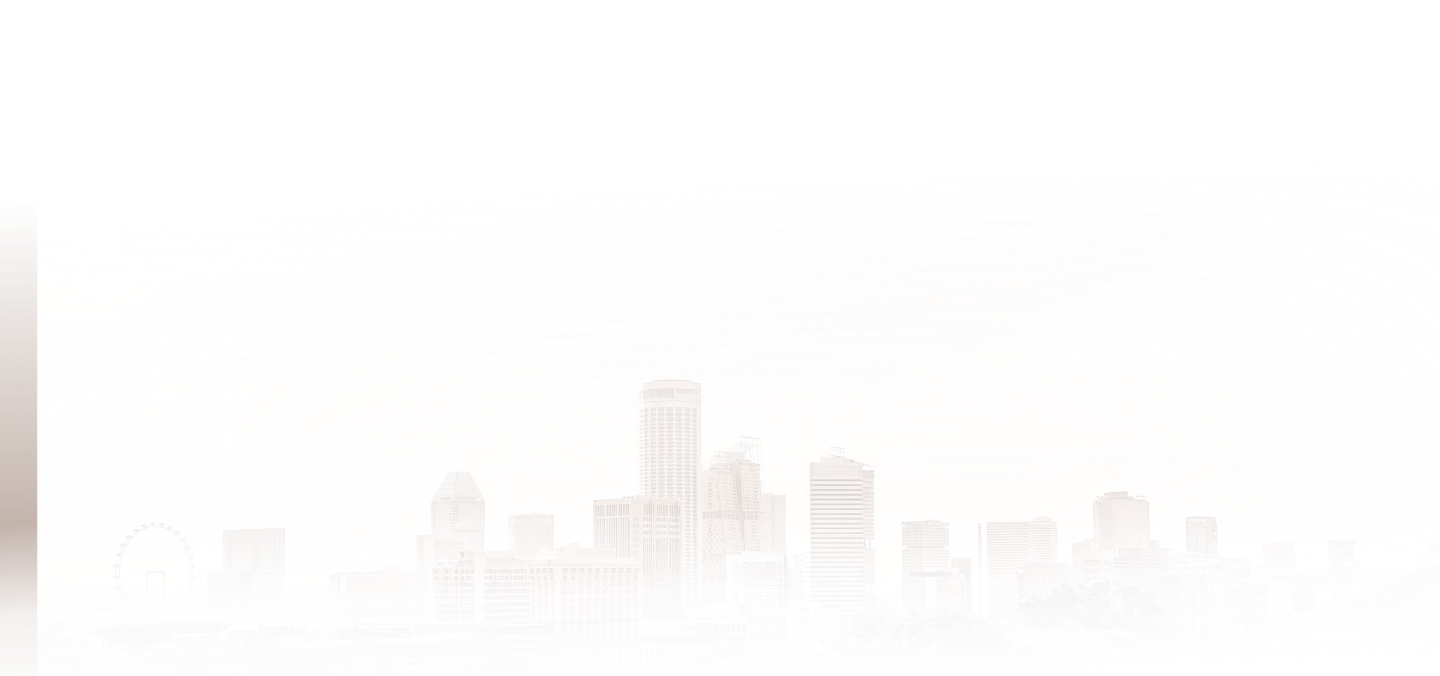
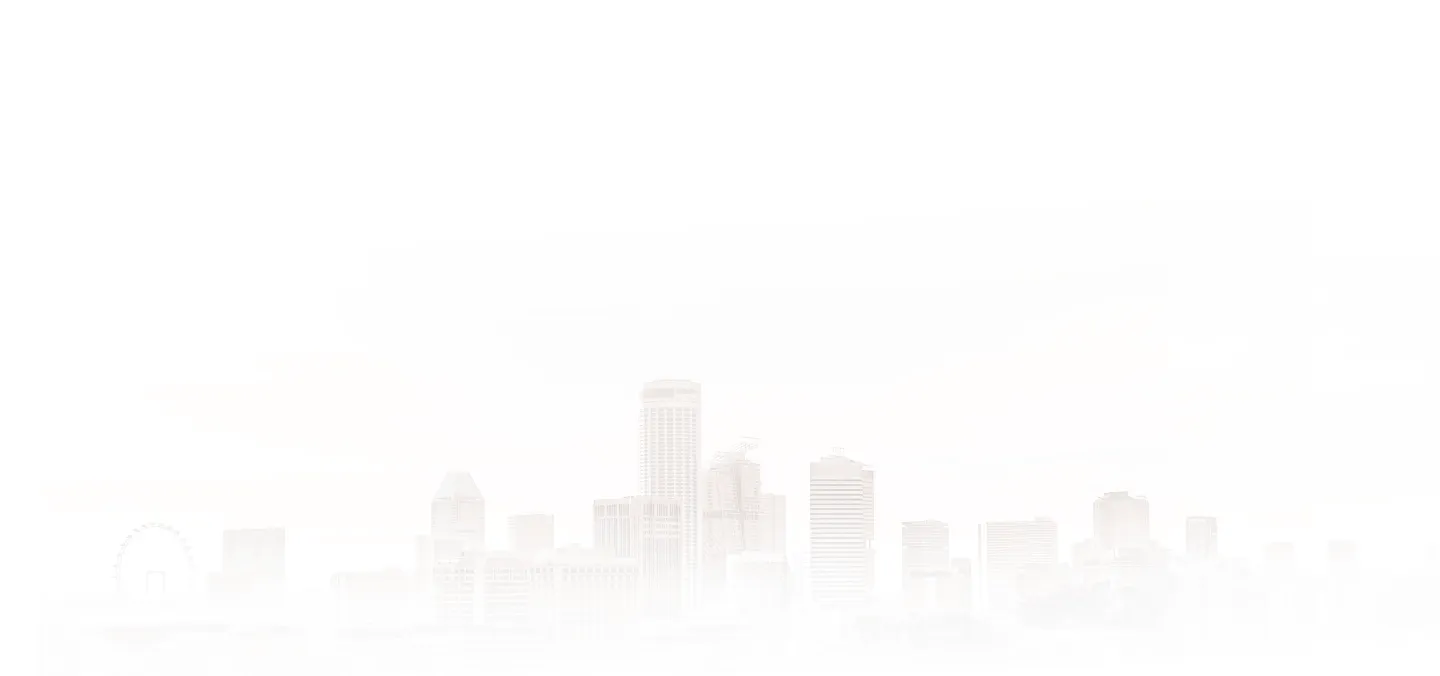
update

Changed region(s): [[0.0, 0.4349, 0.0312, 0.9009]]

diff --git a/src/sections/detail-hr/success/index.tsx b/src/sections/detail-hr/success/index.tsx
@@ -3,11 +3,11 @@
 import ImageV2 from '@/components/image/ImageV2'
 import {ICArrow} from '@/components/itemBlog'
 import {Swiper, SwiperSlide} from 'swiper/react'
-import {Swiper as SwiperType} from 'swiper'
-import {useRef, useState, useMemo} from 'react'
+import {Pagination, Navigation} from 'swiper/modules'
 import 'swiper/css'
 import 'swiper/css/navigation'
 import 'swiper/css/pagination'
+import './style.css'
 import Link from 'next/link'
 
 // Success Card Component
@@ -168,38 +168,8 @@ const SUCCESS_DATA = [
 ]
 
 export default function Success() {
-  const swiperRef = useRef<SwiperType | null>(null)
-  const [activeIndex, setActiveIndex] = useState(0)
-
   const slidesPerView = 3
   const slidesPerGroup = 1
-
-  // Tính toán số lượng pagination dots
-  const totalPages = useMemo(() => {
-    return Math.ceil((SUCCESS_DATA.length - slidesPerView) / slidesPerGroup) + 1
-  }, [])
-
-  const handleSlideChange = (swiper: SwiperType) => {
-    setActiveIndex(swiper.activeIndex)
-  }
-
-  const handleDotClick = (index: number) => {
-    if (swiperRef.current) {
-      swiperRef.current.slideTo(index)
-    }
-  }
-
-  const handlePrevClick = () => {
-    if (swiperRef.current && activeIndex > 0) {
-      swiperRef.current.slidePrev()
-    }
-  }
-
-  const handleNextClick = () => {
-    if (swiperRef.current && activeIndex < totalPages - 1) {
-      swiperRef.current.slideNext()
-    }
-  }
 
   return (
     <section className='flex flex-col items-center justify-center gap-[2.5rem] self-stretch bg-[#F6F6F4] px-[5rem] pb-[6.25rem] xsm:items-start xsm:gap-[1.25rem] xsm:px-0 xsm:pb-[2rem]'>
@@ -209,8 +179,7 @@ export default function Success() {
         </h2>
         <div className='flex items-center gap-[0.75rem] xsm:hidden xsm:gap-[0.5rem]'>
           <button
-            onClick={handlePrevClick}
-            className={`flex w-[2.5rem] cursor-pointer items-center justify-end gap-[0.625rem] rounded-[1.5rem] bg-[rgba(245,193,120,0.20)] p-[0.5rem] xsm:w-[2rem] xsm:gap-[0.5rem] xsm:rounded-[1.2rem] xsm:p-[0.4rem] ${activeIndex === 0 ? 'swiper-button-disabled' : ''}`}
+            className={`swiper-btn-success-prev flex w-[2.5rem] cursor-pointer items-center justify-end gap-[0.625rem] rounded-[1.5rem] bg-[rgba(245,193,120,0.20)] p-[0.5rem] xsm:w-[2rem] xsm:gap-[0.5rem] xsm:rounded-[1.2rem] xsm:p-[0.4rem]`}
           >
             <svg
               className='size-[1.5rem] shrink-0 xsm:size-[1.2rem]'
@@ -230,8 +199,7 @@ export default function Success() {
             </svg>
           </button>
           <button
-            onClick={handleNextClick}
-            className={`flex w-[2.5rem] cursor-pointer items-center justify-end gap-[0.625rem] rounded-[1.5rem] bg-[rgba(245,193,120,0.20)] p-[0.5rem] xsm:w-[2rem] xsm:gap-[0.5rem] xsm:rounded-[1.2rem] xsm:p-[0.4rem] ${activeIndex === totalPages - 1 ? 'swiper-button-disabled' : ''}`}
+            className={`swiper-btn-success-next flex w-[2.5rem] cursor-pointer items-center justify-end gap-[0.625rem] rounded-[1.5rem] bg-[rgba(245,193,120,0.20)] p-[0.5rem] xsm:w-[2rem] xsm:gap-[0.5rem] xsm:rounded-[1.2rem] xsm:p-[0.4rem]`}
           >
             <svg
               className='size-[1.5rem] shrink-0 xsm:size-[1.2rem]'
@@ -257,10 +225,20 @@ export default function Success() {
           slidesPerView={slidesPerView}
           slidesPerGroup={slidesPerGroup}
           spaceBetween={32}
-          onSwiper={(swiper) => {
-            swiperRef.current = swiper
+          navigation={{
+            nextEl: '.swiper-btn-success-next',
+            prevEl: '.swiper-btn-success-prev',
+            disabledClass: 'disabled',
           }}
-          onSlideChange={handleSlideChange}
+          pagination={{
+            el: '.swiper-pagination-custom',
+            type: 'bullets',
+            clickable: true,
+            renderBullet(index, className) {
+              return `<span class='${className} !w-[6.25rem] !h-full !rounded-[6.25rem] !opacity-100 inline-block !ml-0 !mr-1 !last:mr-0 !transition-all !duration-300'></span>`
+            },
+          }}
+          modules={[Pagination, Navigation]}
           className='w-full xsm:hidden'
         >
           {SUCCESS_DATA?.map((item) => (
@@ -281,18 +259,7 @@ export default function Success() {
         ))}
       </div>
 
-      <div className='flex items-center gap-[0.25rem] xsm:hidden'>
-        {Array.from({length: totalPages}, (_, index) => (
-          <button
-            key={index}
-            onClick={() => handleDotClick(index)}
-            className={`h-[0.25rem] w-[6.25rem] rounded-[6.25rem] transition-colors duration-300 ${
-              activeIndex === index ? 'bg-[#5C321E]' : 'bg-[#D9D9D9]'
-            }`}
-            aria-label={`Go to slide ${index + 1}`}
-          />
-        ))}
-      </div>
+      <div className='swiper-pagination-custom !relative !bottom-auto h-1 w-full flex-center xsm:hidden'></div>
     </section>
   )
 }

diff --git a/src/sections/detail-hr/reviews/index.tsx b/src/sections/detail-hr/reviews/index.tsx
@@ -36,6 +36,17 @@ const reviews = [
   },
   {
     image: {
+      src: '/imgs/detail-hr/review-1.png',
+      alt: 'review-1',
+      width: 4096,
+      height: 2731,
+    },
+    content: `“Làm việc cùng với Jimmy, chúng tôi luôn cảm nhận rõ sự tận tâm và chuyên nghiệp. Mọi hồ sơ đều được chuẩn bị kỹ lưỡng, tối ưu hóa khả năng thành công. Đây là đối tác đáng tin cậy hàng đầu của chúng tôi tại khu vực châu Á."`,
+
+    author: 'Luật sư di trú Canada',
+  },
+  {
+    image: {
       src: '/imgs/detail-hr/review-2.jpg',
       alt: 'review-2',
       width: 2048,
@@ -84,7 +95,6 @@ export default function Reviews() {
         slidesPerView='auto'
         spaceBetween={remToPx(0.75)}
         freeMode={true}
-        grabCursor={true}
         navigation={{
           nextEl: '.swiper-btn-next',
           prevEl: '.swiper-btn-prev',
@@ -99,7 +109,7 @@ export default function Reviews() {
               el: '.swiper-reviews-pagination',
               type: 'bullets',
               renderBullet(index, className) {
-                return `<span class="${className} !w-[6.25rem] !h-full !rounded-[6.25rem] !opacity-100 inline-block !ml-0 !mr-1 !last:mr-0"></span>`
+                return `<span class="${className} !w-[6.25rem] !h-full !rounded-[6.25rem] !opacity-100 inline-block !ml-0 !mr-1 !last:mr-0 !transition-all !duration-300"></span>`
               },
               clickable: true,
             },

diff --git a/src/sections/detail-hr/archieverment/index.tsx b/src/sections/detail-hr/archieverment/index.tsx
@@ -3,7 +3,7 @@
 import Image from 'next/image'
 import {Fragment, useMemo, useRef, useState} from 'react'
 import {Swiper, SwiperSlide} from 'swiper/react'
-import {Navigation, Pagination, A11y} from 'swiper/modules'
+import {Navigation, Pagination} from 'swiper/modules'
 import 'swiper/css'
 import 'swiper/css/navigation'
 import 'swiper/css/pagination'
@@ -144,7 +144,7 @@ export default function Achievements() {
       </div>
       <div className='z-1 relative flex flex-col items-center gap-[3rem] self-stretch xsm:gap-0'>
         <Swiper
-          modules={[A11y]}
+          modules={[Pagination, Navigation]}
           slidesPerView={1}
           spaceBetween={32}
           onBeforeInit={(swiper) => {
@@ -197,7 +197,7 @@ export default function Achievements() {
         </div>
       </div>
       {/* pagination and navigation for mobile */}
-      <div className='z-1 relative flex hidden w-full items-center justify-between xsm:flex'>
+      <div className='z-1 relative hidden w-full items-center justify-between xsm:flex'>
         <div className='flex items-center justify-center gap-[0.25rem]'>
           {groups?.map((_, i) => (
             <div

diff --git a/src/sections/detail-hr/form-contact/index.tsx b/src/sections/detail-hr/form-contact/index.tsx
@@ -4,6 +4,7 @@ import z from 'zod'
 import InputGroup from './InputGroup'
 import Image from 'next/image'
 import {zodResolver} from '@hookform/resolvers/zod'
+import './style.css'
 
 const vietnamPhoneRegex =
   /^(?:\+84|0)(?:3[2-9]|5[6|8|9]|7[0|6-9]|8[1-5]|9[0-4|6-9])[0-9]{7}$/
@@ -79,7 +80,7 @@ export default function FormContact() {
               type='submit'
               className='h-12 space-x-2 rounded-[0.5rem] bg-[linear-gradient(97deg,#5C321E_-3.86%,#95502F_51.97%,#F5C178_117.18%)] py-2 pl-6 pr-3 text-sm font-medium leading-[150%] tracking-[-0.0175rem] text-white flex-center xsm:w-full'
             >
-              <span>Tìm hiểu thêm</span>
+              <span>Gửi thông tin</span>
               <Image
                 src={'/icons/arrow-right.svg'}
                 alt='Arrow Right'

diff --git a/src/sections/detail-hr/personnel/index.tsx b/src/sections/detail-hr/personnel/index.tsx
@@ -52,15 +52,15 @@ export default function Personnel() {
         <Image
           src='/imgs/detail-hr/banner/bg-personnel.webp'
           alt='Background Image Personnel'
-          width={1990}
-          height={882.651}
+          width={1440}
+          height={676}
           className='absolute bottom-0 left-0 h-auto w-full xsm:hidden'
         />
         <Image
           src='/imgs/detail-hr/banner/bg-personnel-mb.webp'
           alt='Background Image Personnel'
-          width={1637.56}
-          height={726.329}
+          width={351}
+          height={550}
           className='absolute bottom-0 left-0 hidden h-auto w-full xsm:block'
         />
       </div>

diff --git a/src/sections/detail-hr/settle/index.tsx b/src/sections/detail-hr/settle/index.tsx
@@ -115,11 +115,11 @@ export default function Settle() {
             cùng hàng trăm gia đình hiện thực hóa giấc mơ xây dựng cuộc sống bền
             vững ở nước ngoài.
           </p>
-          <ul>
+          <ul className='space-y-3 xsm:space-y-2'>
             {items.map((item, i) => (
               <li
                 key={i}
-                className='flex items-center space-x-2.5 space-y-3 xsm:space-x-2 xsm:space-y-2'
+                className='flex items-center space-x-2.5 xsm:space-x-2'
               >
                 <Image
                   src={'/icons/detail-hr/check.svg'}

diff --git a/src/sections/detail-hr/banner/index.tsx b/src/sections/detail-hr/banner/index.tsx
@@ -5,7 +5,7 @@ import {Breadcrumb} from '@/components/breadcrumb'
 
 export default function Banner() {
   return (
-    <section className='relative mt-[6.44rem] h-[29.875rem] self-stretch xsm:h-[14.625rem]'>
+    <section className='relative h-[29.875rem] self-stretch xsm:h-[14.625rem]'>
       <Image
         src='/imgs/detail-hr/banner/banner-image.webp'
         alt='Banner Image'

diff --git a/src/pages/detail-hr/index.tsx b/src/pages/detail-hr/index.tsx
@@ -10,7 +10,7 @@ import React from 'react'
 
 export default function HRDetail() {
   return (
-    <main className='relative bg-background'>
+    <main className='relative mt-[6.44rem] bg-background xsm:mt-[3.75rem]'>
       <Banner />
       <Personnel />
       <Achievements />

diff --git a/src/sections/detail-hr/form-contact/InputGroup.tsx b/src/sections/detail-hr/form-contact/InputGroup.tsx
@@ -51,7 +51,7 @@ export default forwardRef(function InputGroup(
           )}
         </label>
       </div>
-      {error && <p className='mt-1 text-base text-[#EA3434]'>{error}</p>}
+      {error && <p className='mt-1 text-sm text-[#EA3434]'>{error}</p>}
     </div>
   )
 })

diff --git a/src/sections/detail-hr/success/style.css b/src/sections/detail-hr/success/style.css
@@ -1,0 +1,7 @@
+.swiper-pagination-custom .swiper-pagination-bullet {
+  --swiper-pagination-bullet-inactive-color: #d9d9d9;
+}
+
+.swiper-pagination-custom .swiper-pagination-bullet-active {
+  --swiper-pagination-color: #5c321e;
+}

diff --git a/src/sections/detail-hr/form-contact/style.css b/src/sections/detail-hr/form-contact/style.css
@@ -1,0 +1,3 @@
+footer {
+  @apply !pt-[calc(6rem+11.36rem)] xsm:!pt-[calc(6rem+10.99rem)];
+}
